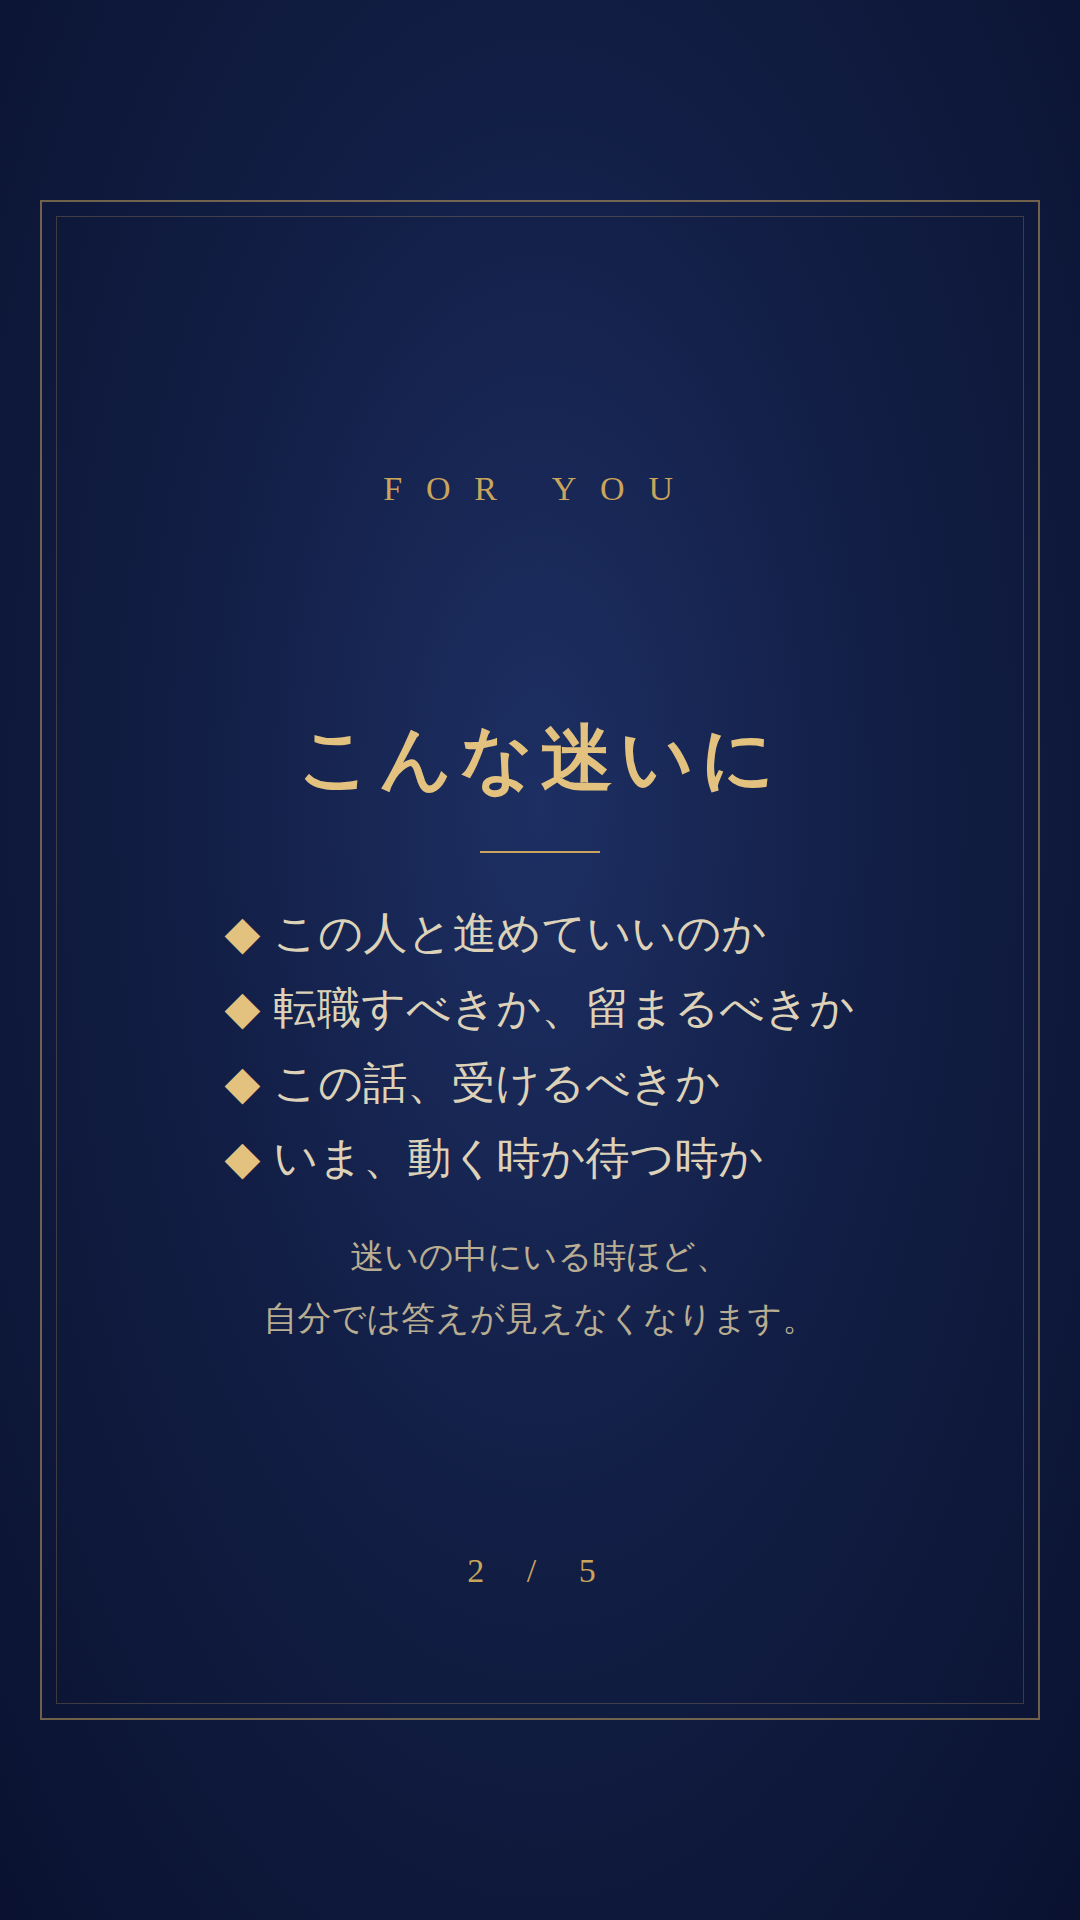
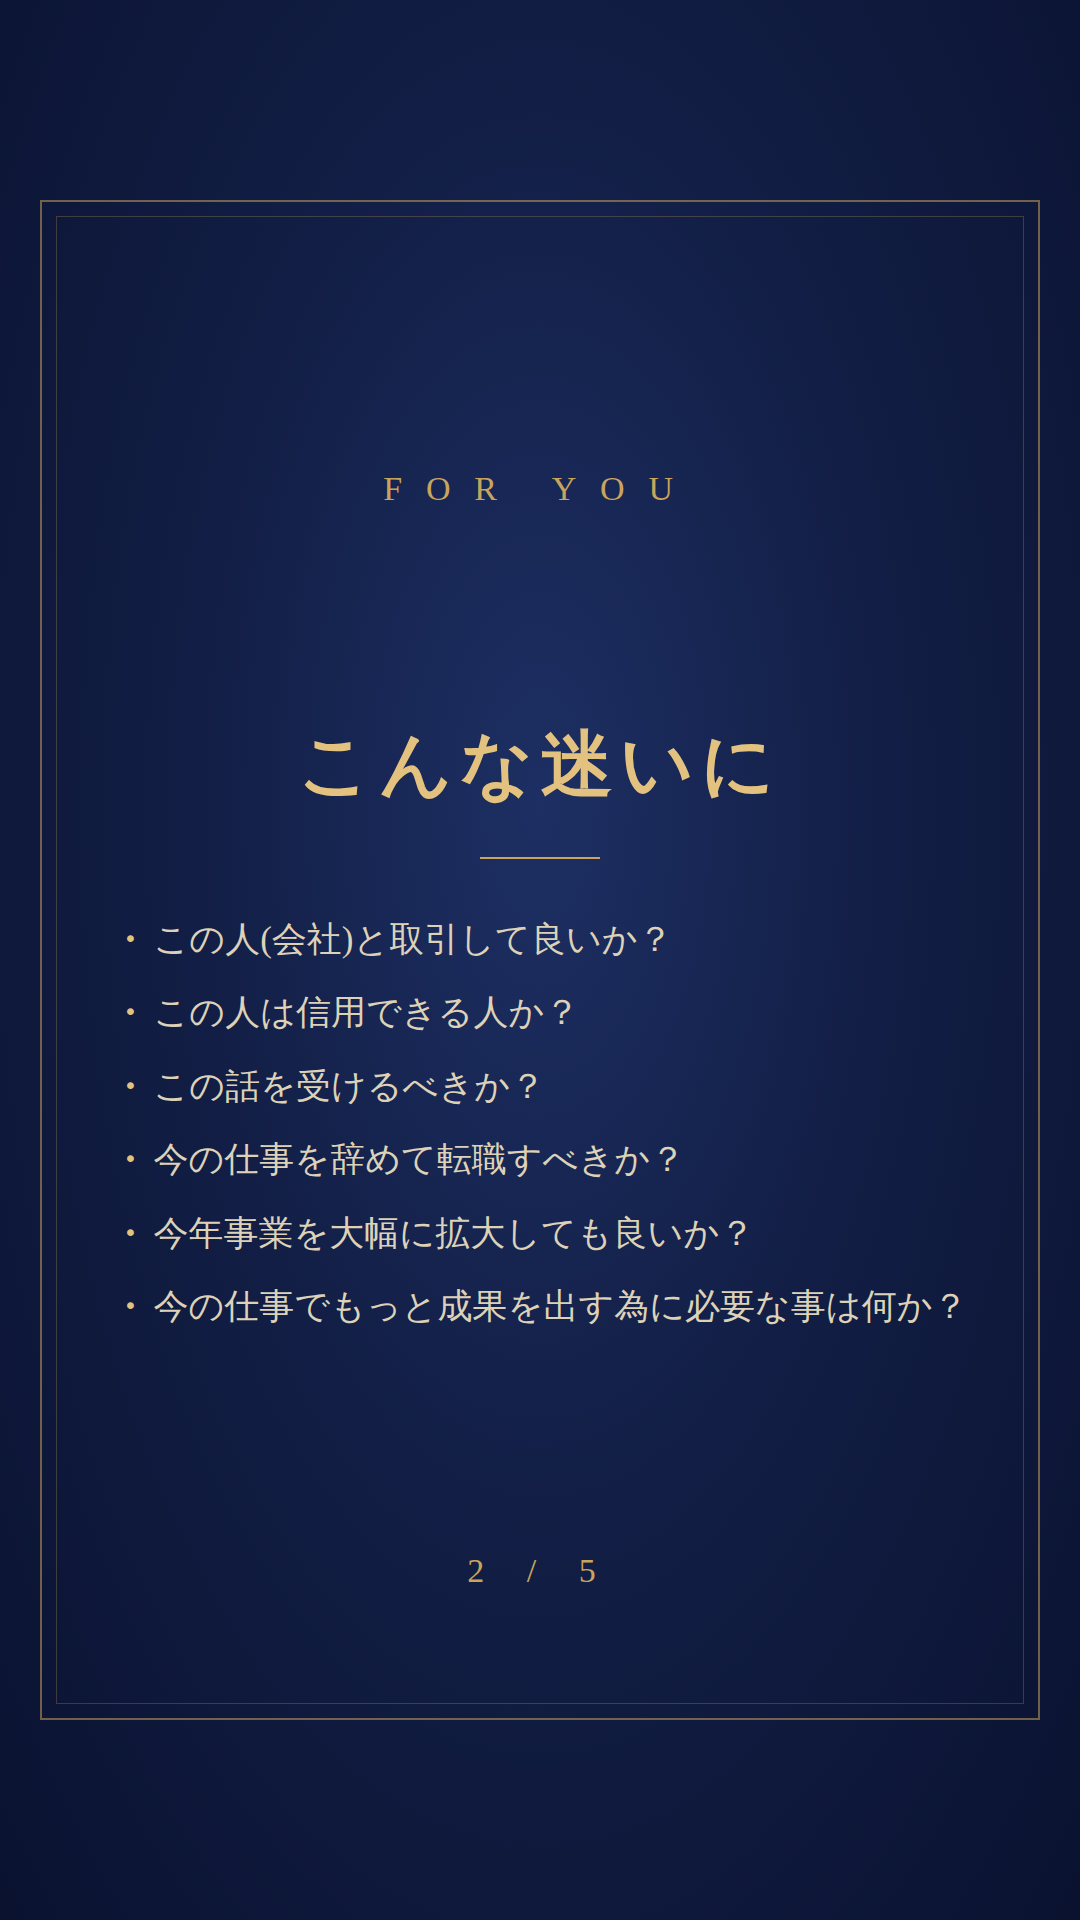
文章鑑定ストーリーズ：2枚目の例文を差し替え、全文字を明朝（しっぽり明朝）に統一
Claude-Session: https://claude.ai/code/session_01MFDsaTwboDwHmFFa1ot2LW

diff --git a/insta/bunsho/story.js b/insta/bunsho/story.js
@@ -1,8 +1,8 @@
 const {chromium}=require('playwright');const path=require('path');
 const F='file://'+path.resolve('../vid/fonts');const OUT='/home/user/onmyo-tengan/insta/bunsho';
 const yy=`<svg width="150" height="150" viewBox="-52 -52 104 104"><circle r="50" fill="none" stroke="#c9a45c" stroke-width="2"/><path d="M0,-46 A46,46 0 0,1 0,46 A23,23 0 0,1 0,0 A23,23 0 0,0 0,-46Z" fill="#c9a45c"/><path d="M0,-46 A46,46 0 0,0 0,46 A23,23 0 0,0 0,0 A23,23 0 0,1 0,-46Z" fill="none"/><circle cy="-23" r="6" fill="#c9a45c"/><circle cy="23" r="6" fill="#0f1a3a"/></svg>`;
-const css=`@font-face{font-family:S;src:url(${F}/f1.ttf);font-weight:500}@font-face{font-family:S;src:url(${F}/f2.ttf);font-weight:800}
-*{margin:0;box-sizing:border-box}body{width:1080px;height:1920px;overflow:hidden;font-family:S;color:#e8dcc0;background:radial-gradient(ellipse at 50% 42%,#1d2f63 0%,#121e45 45%,#0a1230 100%)}
+const css=`@font-face{font-family:S;src:url(${F}/sm5.ttf);font-weight:500}@font-face{font-family:S;src:url(${F}/sm8.ttf);font-weight:800}
+*{margin:0;box-sizing:border-box;font-family:S !important}body{width:1080px;height:1920px;overflow:hidden;font-family:S;color:#e8dcc0;background:radial-gradient(ellipse at 50% 42%,#1d2f63 0%,#121e45 45%,#0a1230 100%)}
 .f1{position:absolute;left:40px;right:40px;top:200px;bottom:200px;border:2px solid #c9a45c88}.f2{position:absolute;left:56px;right:56px;top:216px;bottom:216px;border:1px solid #c9a45c44}
 .lab{position:absolute;top:470px;width:100%;text-align:center;color:#c9a45c;font-size:34px;letter-spacing:.7em;font-weight:500}
 .wrap{position:absolute;left:110px;right:110px;top:560px;bottom:420px;display:flex;flex-direction:column;align-items:center;justify-content:center;text-align:center}
@@ -10,14 +10,14 @@ const css=`@font-face{font-family:S;src:url(${F}/f1.ttf);font-weight:500}@font-f
 .h{font-size:72px;font-weight:800;color:#e3c27f;letter-spacing:.1em}
 .ln{width:120px;height:2px;background:#c9a45c;margin:44px auto}
 .s{font-size:44px;line-height:1.9;color:#ddd2b8;letter-spacing:.08em}
-.li{font-size:44px;line-height:1.7;text-align:left;color:#ddd2b8}.li b{color:#e3c27f;font-weight:800;margin-right:14px}
+.li{font-size:44px;line-height:1.7;text-align:left;color:#ddd2b8}.li b{color:#e3c27f;font-weight:800;margin-right:6px}
 .price{font-size:120px;font-weight:800;color:#e3c27f;letter-spacing:.02em}.price small{font-size:44px;margin-left:10px}
 .badge{display:inline-block;border:2px solid #c9a45c;color:#e3c27f;font-size:40px;padding:10px 34px;letter-spacing:.2em;margin-bottom:36px}
 .note{font-size:34px;color:#b9ad92;line-height:1.8;margin-top:30px}
 .pg{position:absolute;bottom:330px;width:100%;text-align:center;color:#c9a45c;font-size:34px;letter-spacing:.5em}`;
 const P=[
 `<div class=lab>MENU</div><div class=wrap>${yy}<div style="height:50px"></div><div class=badge>初回限定</div><div class=t>文章鑑定</div><div class=ln></div><div class=s>いま一番知りたいことを一つ、<br>易で観て、文章でお答えします</div></div>`,
-`<div class=lab>FOR YOU</div><div class=wrap><div class=h>こんな迷いに</div><div class=ln></div><div class=li><b>◆</b>この人と進めていいのか<br><b>◆</b>転職すべきか、留まるべきか<br><b>◆</b>この話、受けるべきか<br><b>◆</b>いま、動く時か待つ時か</div><div class=note>迷いの中にいる時ほど、<br>自分では答えが見えなくなります。</div></div>`,
+`<div class=lab>FOR YOU</div><div class=wrap style="left:80px;right:80px"><div class=h>こんな迷いに</div><div class=ln></div><div class=li style="font-size:35px;line-height:2.1;white-space:nowrap"><b>・</b>この人(会社)と取引して良いか？<br><b>・</b>この人は信用できる人か？<br><b>・</b>この話を受けるべきか？<br><b>・</b>今の仕事を辞めて転職すべきか？<br><b>・</b>今年事業を大幅に拡大しても良いか？<br><b>・</b>今の仕事でもっと成果を出す為に必要な事は何か？</div></div>`,
 `<div class=lab>CONTENTS</div><div class=wrap><div class=h>鑑定の内容</div><div class=ln></div><div class=li><b>一</b>ご質問は一つ（一問一卦）<br><b>二</b>得た卦と爻、その意味<br><b>三</b>いまの状況の読み解き<br><b>四</b>これからの動き方の助言</div><div class=note>明治の易聖・高島嘉右衛門の<br>『高島易断』に基づいて観ます。</div></div>`,
 `<div class=lab>PRICE</div><div class=wrap><div class=h>料金</div><div class=ln></div><div class=price>5,500<small>円（税込）</small></div><div class=s style="margin-top:30px">初回の方　お一人様一回限り</div><div class=note>ご入金確認後、文章でお届けします。<br>お支払い方法はお申込み時にご案内します。</div></div>`,
 `<div class=lab>CONTACT</div><div class=wrap>${yy}<div style="height:40px"></div><div class=h>お申込み</div><div class=ln></div><div class=s>プロフィールのリンクから<br>お気軽にどうぞ</div><div class=note>さらに詳しく、本質やこれからの流れまで<br>観たい方は　個別鑑定（初回 55,000円）</div></div>`];
